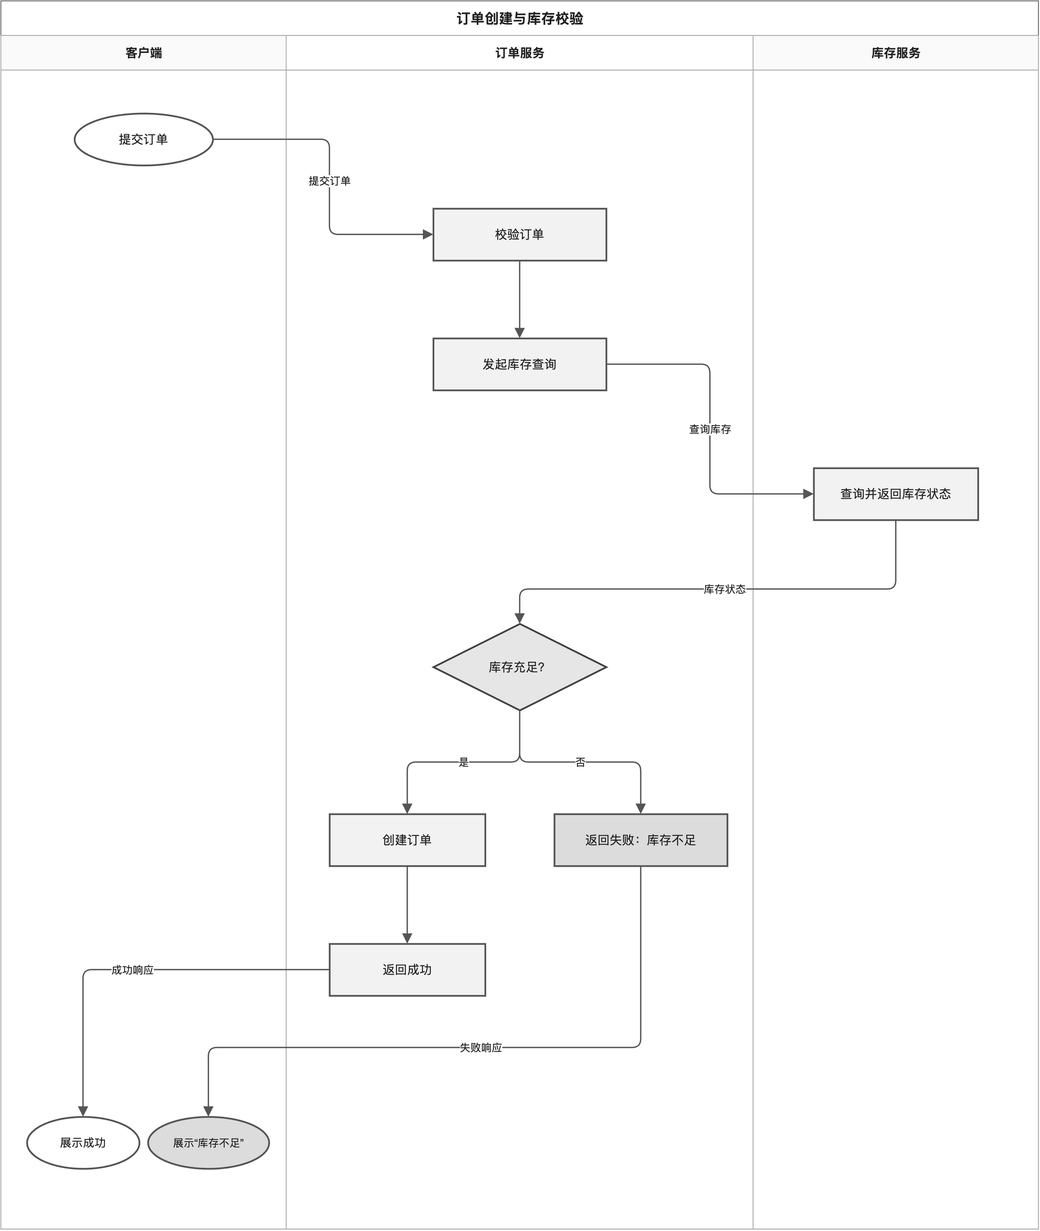
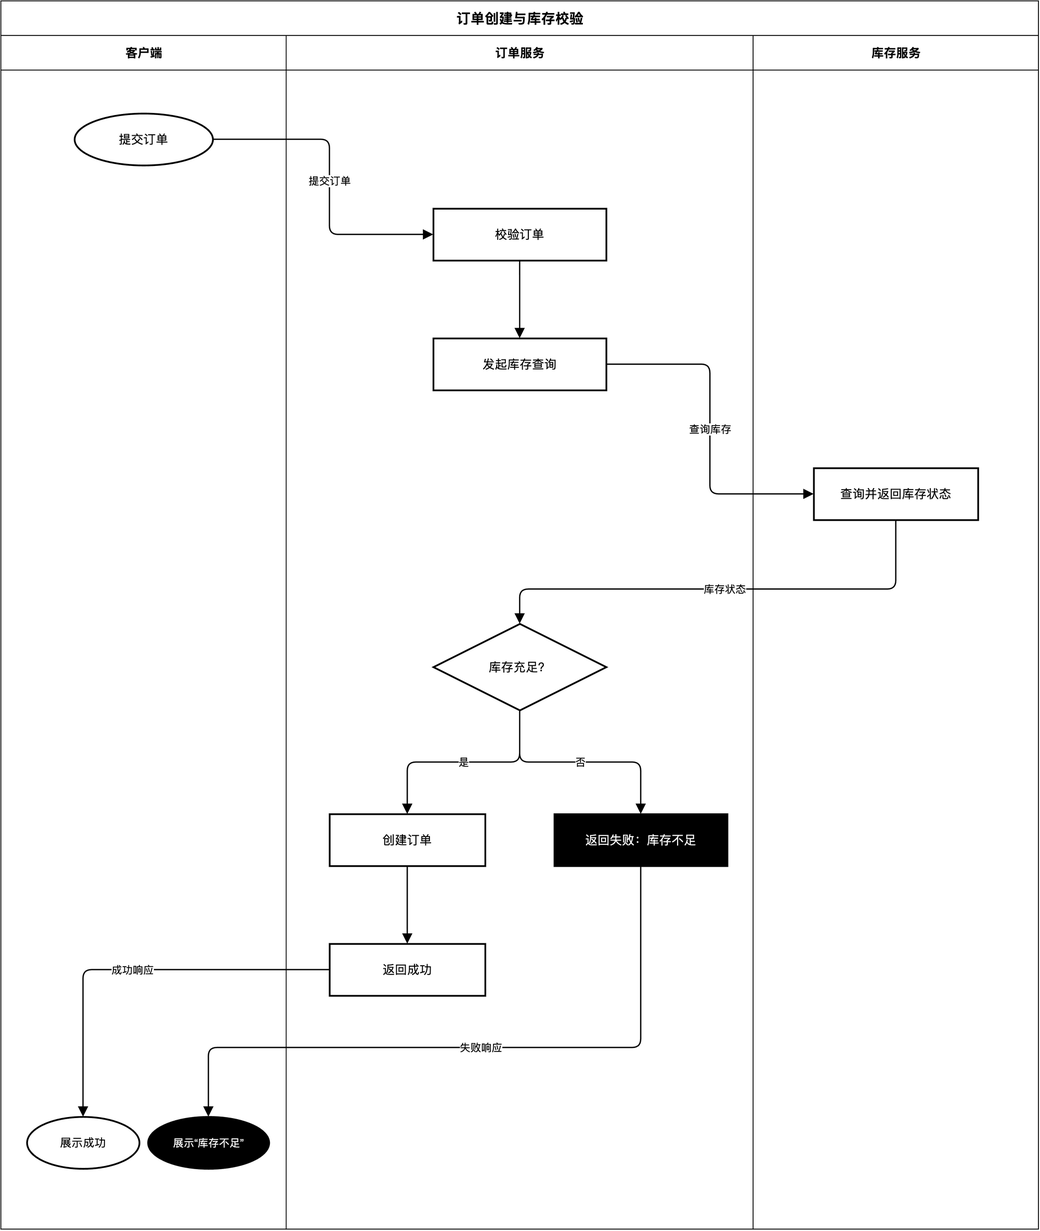
feat(skill): enforce pure black-and-white diagrams

diff --git a/demo/order_stock_comparison.html b/demo/order_stock_comparison.html
@@ -38,8 +38,8 @@
       <nav><a href="order_stock_text2drawio.png" target="_blank">查看 PNG</a><a href="order_stock_text2drawio.drawio" download>下载 .drawio</a></nav>
     </article>
     <article>
-      <h2>4. text2drawio-skill 优化后（竖向泳道 · 灰度）</h2>
-      <a href="order_stock_text2drawio_vertical.png" target="_blank"><img src="order_stock_text2drawio_vertical.png" alt="text2drawio-skill 优化后的竖向灰度泳道图"></a>
+      <h2>4. text2drawio-skill 当前版（竖向泳道 · 纯黑白）</h2>
+      <a href="order_stock_text2drawio_vertical.png" target="_blank"><img src="order_stock_text2drawio_vertical.png" alt="text2drawio-skill 当前生成的竖向黑白泳道图"></a>
       <nav><a href="order_stock_text2drawio_vertical.png" target="_blank">查看 PNG</a><a href="order_stock_text2drawio_vertical.drawio" download>下载 .drawio</a></nav>
     </article>
   </main>

diff --git a/text2drawio-skill/scripts/check_conventions.py b/text2drawio-skill/scripts/check_conventions.py
@@ -1,13 +1,12 @@
 #!/usr/bin/env python3
-"""Check grayscale, vertical swimlanes, and consistent two-way decision edges."""
+"""Check pure black/white colors, vertical lanes, and consistent decision edges."""
 
 import argparse
-import re
 import sys
 import xml.etree.ElementTree as ET
 
 
-HEX_COLOR = re.compile(r"#([0-9a-fA-F]{6}|[0-9a-fA-F]{3})(?![0-9a-fA-F])")
+ALLOWED_COLORS = {"#000000", "#FFFFFF"}
 BRANCH_KEYS = ("edgeStyle", "rounded", "orthogonalLoop", "jettySize",
                "strokeColor", "strokeWidth", "endArrow", "endSize")
 
@@ -41,23 +40,34 @@ def first_waypoint(edge):
         return None
 
 
-def is_gray(hex_value):
-    if len(hex_value) == 3:
-        channels = [int(c * 2, 16) for c in hex_value]
-    else:
-        channels = [int(hex_value[i:i + 2], 16) for i in (0, 2, 4)]
-    return len(set(channels)) == 1
-
-
 def inspect(path):
     root = ET.parse(path).getroot()
     cells = root.findall(".//mxCell")
     findings = []
 
     for cell in cells:
-        for color in HEX_COLOR.findall(cell.get("style") or ""):
-            if not is_gray(color):
-                findings.append(f"{cell.get('id')}: non-grayscale style color #{color}")
+        style = style_map(cell.get("style"))
+        for key, color in style.items():
+            if key.lower().endswith("color") and color.upper() not in ALLOWED_COLORS:
+                findings.append(f"{cell.get('id')}: {key} must be #000000 or #FFFFFF, got {color}")
+        if cell.get("vertex") == "1":
+            for key in ("fillColor", "strokeColor", "fontColor"):
+                if key not in style:
+                    findings.append(f"{cell.get('id')}: missing explicit {key}")
+        if cell.get("edge") == "1":
+            for key in (("strokeColor", "fontColor") if cell.get("value") else ("strokeColor",)):
+                if key not in style:
+                    findings.append(f"{cell.get('id')}: missing explicit {key}")
+        if cell.get("vertex") == "1" and cell.get("value"):
+            fill, font = style.get("fillColor"), style.get("fontColor", "#000000")
+            if fill and fill.upper() == font.upper():
+                findings.append(f"{cell.get('id')}: label color matches the fill")
+
+    for element in root.iter():
+        for key, color in element.attrib.items():
+            if key.lower().endswith("color") or key == "background":
+                if color.upper() not in ALLOWED_COLORS:
+                    findings.append(f"{element.tag}: {key} must be #000000 or #FFFFFF, got {color}")
 
     by_parent = {}
     for cell in cells:

diff --git a/text2drawio-skill/scripts/autolayout.py b/text2drawio-skill/scripts/autolayout.py
@@ -32,9 +32,9 @@ import sys
 from xml.sax.saxutils import escape
 
 DEFAULT_W, DEFAULT_H = 120, 60
-NODE_STYLE = "rounded=1;whiteSpace=wrap;html=1;fillColor=#f2f2f2;strokeColor=#555555;"
-EDGE_STYLE = "html=1;rounded=0;"
-GROUP_STYLE = ("rounded=0;whiteSpace=wrap;html=1;fillColor=none;strokeColor=#999999;"
+NODE_STYLE = "rounded=1;whiteSpace=wrap;html=1;fillColor=#FFFFFF;strokeColor=#000000;fontColor=#000000;"
+EDGE_STYLE = "html=1;rounded=0;strokeColor=#000000;fontColor=#000000;"
+GROUP_STYLE = ("rounded=0;whiteSpace=wrap;html=1;fillColor=#FFFFFF;strokeColor=#000000;"
                "verticalAlign=top;fontStyle=2;dashed=1;")
 # Group colours come from the skill's own palette (styles/built-in/default.json)
 # so there is a single source of truth, not a second list baked in here. When a
@@ -44,8 +44,7 @@ GROUP_STYLE = ("rounded=0;whiteSpace=wrap;html=1;fillColor=none;strokeColor=#999
 # nodes are tinted. Disable with --mono.
 _PALETTE_ORDER = ["primary", "success", "accent", "secondary", "warning", "danger", "neutral"]
 _PALETTE_FILE = os.path.join(os.path.dirname(__file__), "..", "styles", "built-in", "default.json")
-_FALLBACK_PALETTE = [("#f2f2f2", "#555555"), ("#ffffff", "#555555"), ("#eeeeee", "#555555"),
-                     ("#eaeaea", "#555555"), ("#e6e6e6", "#444444"), ("#dcdcdc", "#555555")]
+_FALLBACK_PALETTE = [("#FFFFFF", "#000000")]
 
 
 def load_palette():
@@ -182,8 +181,8 @@ def layout(dot_src):
 
 
 def group_style(stroke):
-    """Container box styled with a group's colour (coloured border + title)."""
-    return (f"rounded=0;whiteSpace=wrap;html=1;fillColor=none;strokeColor={stroke};"
+    """Container box with a black border and title on a white background."""
+    return (f"rounded=0;whiteSpace=wrap;html=1;fillColor=#FFFFFF;strokeColor={stroke};"
             f"fontColor={stroke};verticalAlign=top;fontStyle=2;dashed=1;")
 
 
@@ -282,7 +281,7 @@ def page_cells(graph, height, pos, edge_pts, color=True):
             style = node["style"]                         # explicit style always wins
         elif color and nid in gpath:
             fill, stroke = gcolor(gpath[nid][0])          # tint styleless nodes by group
-            style = f"rounded=1;whiteSpace=wrap;html=1;fillColor={fill};strokeColor={stroke};"
+            style = f"rounded=1;whiteSpace=wrap;html=1;fillColor={fill};strokeColor={stroke};fontColor=#000000;"
         else:
             style = NODE_STYLE
         body = (f'style="{attr(style)}" vertex="1" parent="{attr(parent)}">\n'

diff --git a/text2drawio-skill/SKILL.md b/text2drawio-skill/SKILL.md
@@ -1,11 +1,11 @@
 ---
 name: text2drawio-skill
-description: Turn a natural-language request into an editable native .drawio flowchart or system interaction diagram. Use vertical swimlane columns, a grayscale palette, consistent decision branches, structural validation, and PNG visual review.
+description: Turn a natural-language request into an editable native .drawio flowchart or system interaction diagram. Use vertical swimlane columns, only black and white, consistent decision branches, structural validation, and PNG visual review.
 ---
 
 # Natural language to editable draw.io
 
-`text2drawio-skill` is adapted from Agents365-ai/drawio-skill at commit `6550495129d9a42eff7e71434d15bfc9846b6202` (MIT; see `LICENSE`). Its original Python helpers are retained, with local grayscale defaults in `autolayout.py`. `export_png.py` and `check_conventions.py` are local helpers. The agent plans and writes the diagram; these scripts do not interpret natural language or inspect pixels on their own.
+`text2drawio-skill` is adapted from Agents365-ai/drawio-skill at commit `6550495129d9a42eff7e71434d15bfc9846b6202` (MIT; see `LICENSE`). Its original Python helpers are retained, with local black-and-white defaults in `autolayout.py`. `export_png.py` and `check_conventions.py` are local helpers. The agent plans and writes the diagram; these scripts do not interpret natural language or inspect pixels on their own.
 
 ## Requirements
 
@@ -17,11 +17,11 @@ description: Turn a natural-language request into an editable native .drawio flo
 ## Create
 
 1. Extract the participants, actions, order, conditions, exception paths, and requested diagram type. Keep assumptions and unanswered questions visible in the response. For a system interaction swimlane, use one **vertical column** per participating system; time flows top to bottom. Put each step inside the column of the system performing it.
-2. Read [diagram-types.md](references/diagram-types.md) for vertical swimlanes and [xml-authoring.md](references/xml-authoring.md) before writing native XML. Plan positions, container nesting, connection ports, and routing corridors. Use only black, white, and gray fills, strokes, and text in this version. For a large non-swimlane graph, optionally describe nodes/edges as JSON and use `python3 scripts/autolayout.py graph.json -o diagram.drawio` if Graphviz is installed.
-3. Write an uncompressed `.drawio` file with `<mxfile>`, `<mxGraphModel>`, root cells `0` and `1`, stable unique cell IDs, `mxGeometry` for each shape and edge, and source/target IDs for connections. Keep labels short enough to fit. Use relative coordinates for child cells inside lanes.
-4. For each decision with two alternatives, place both outgoing edges at the **same exact port** on the decision cell. Give them the same `edgeStyle`, `rounded`, `strokeWidth`, `strokeColor`, and arrow settings. Prefer a short shared stem to one branching point, then explicit orthogonal waypoints to the two targets; label the diverging arms `是` and `否` near the split. Distinguish outcomes by text and destination, not edge color or a different line type.
+2. Read [diagram-types.md](references/diagram-types.md) for vertical swimlanes and [xml-authoring.md](references/xml-authoring.md) before writing native XML. Plan positions, container nesting, connection ports, and routing corridors. Use only `#000000` and `#FFFFFF` for every fill, stroke, font, background, and label color. Avoid transparency, named colors, gray, and gradients. For a large non-swimlane graph, optionally describe nodes/edges as JSON and use `python3 scripts/autolayout.py graph.json -o diagram.drawio` if Graphviz is installed.
+3. Write an uncompressed `.drawio` file with `<mxfile>`, `<mxGraphModel>`, root cells `0` and `1`, stable unique cell IDs, `mxGeometry` for each shape and edge, and source/target IDs for connections. Set `fillColor`, `strokeColor`, and `fontColor` explicitly on every vertex, and set black `strokeColor` on every edge. Keep labels short enough to fit. Use relative coordinates for child cells inside lanes.
+4. For each decision with two alternatives, place both outgoing edges at the **same exact port** on the decision cell. Give them the same `edgeStyle`, `rounded`, `strokeWidth`, `strokeColor`, and arrow settings. Prefer a short shared stem to one branching point, then explicit orthogonal waypoints to the two targets; label the diverging arms `是` and `否` near the split. Distinguish outcomes by text, shape, or black fill with white text, not a different line color or type.
 5. Run `python3 scripts/validate.py diagram.drawio --score` and `python3 scripts/check_conventions.py diagram.drawio`. Fix errors before preview. Treat geometry warnings as review prompts: draw.io computes many edge paths only at render time.
-6. Run `python3 scripts/export_png.py diagram.drawio -o diagram.preview.png` to export a draft without embedded XML. Open the PNG with the host's image viewing tool and check lane orientation, grayscale palette, the branch junction and labels, overlapping shapes, clipped text, and edges crossing unrelated shapes. If multiple edges stack at a node boundary, run `python3 scripts/edgeports.py diagram.drawio -o diagram.routed.drawio`, then inspect the result. Do not run it on a deliberately shared decision port; it preserves manually pinned ports.
+6. Run `python3 scripts/export_png.py diagram.drawio -o diagram.preview.png` to export a draft without embedded XML. Open the PNG with the host's image viewing tool and check lane orientation, pure black-and-white palette, the branch junction and labels, overlapping shapes, clipped text, and edges crossing unrelated shapes. If multiple edges stack at a node boundary, run `python3 scripts/edgeports.py diagram.drawio -o diagram.routed.drawio`, then inspect the result. Do not run it on a deliberately shared decision port; it preserves manually pinned ports.
 7. If defects remain, edit the XML, validate, export, and inspect again. Make at most **two automatic visual repair rounds** after the initial draft. Report any remaining defects plainly. If PNG export or image inspection is unavailable, do not silently count the missing check as successful.
 8. Show the preview and editable `.drawio` to the user. Apply up to **five user-feedback rounds** in the current creation cycle. For each round, change only affected cells where practical, then validate and preview again. Keep the round count in the conversation; no bundled script enforces it. After the fifth round, deliver the latest file and describe any remaining requested refinement.
 

diff --git a/text2drawio-skill/references/xml-authoring.md b/text2drawio-skill/references/xml-authoring.md
@@ -53,17 +53,17 @@ For non-trivial shapes, verify that draw.io supports the chosen `shape=mxgraph.*
 
 ```xml
 <!-- Rectangle / rounded box -->
-<mxCell id="2" value="Label" style="rounded=1;whiteSpace=wrap;html=1;fillColor=#f2f2f2;strokeColor=#555555;" vertex="1" parent="1">
+<mxCell id="2" value="Label" style="rounded=1;whiteSpace=wrap;html=1;fillColor=#FFFFFF;strokeColor=#000000;fontColor=#000000;" vertex="1" parent="1">
   <mxGeometry x="100" y="100" width="160" height="60" as="geometry" />
 </mxCell>
 
 <!-- Cylinder (database) -->
-<mxCell id="3" value="DB" style="shape=cylinder3;whiteSpace=wrap;html=1;fillColor=#f5f5f5;strokeColor=#666666;fontColor=#333333;" vertex="1" parent="1">
+<mxCell id="3" value="DB" style="shape=cylinder3;whiteSpace=wrap;html=1;fillColor=#FFFFFF;strokeColor=#000000;fontColor=#000000;" vertex="1" parent="1">
   <mxGeometry x="350" y="100" width="120" height="80" as="geometry" />
 </mxCell>
 
 <!-- Diamond (decision) -->
-<mxCell id="4" value="Check?" style="rhombus;whiteSpace=wrap;html=1;fillColor=#e6e6e6;strokeColor=#444444;" vertex="1" parent="1">
+<mxCell id="4" value="Check?" style="rhombus;whiteSpace=wrap;html=1;fillColor=#FFFFFF;strokeColor=#000000;fontColor=#000000;" vertex="1" parent="1">
   <mxGeometry x="100" y="220" width="160" height="80" as="geometry" />
 </mxCell>
 ```
@@ -85,14 +85,14 @@ For architecture diagrams with nested elements, use draw.io's parent-child conta
 
 ```xml
 <!-- Swimlane container -->
-<mxCell id="svc1" value="User Service" style="swimlane;startSize=30;fillColor=#fafafa;strokeColor=#aaaaaa;" vertex="1" parent="1">
+<mxCell id="svc1" value="User Service" style="swimlane;startSize=30;fillColor=#FFFFFF;strokeColor=#000000;fontColor=#000000;" vertex="1" parent="1">
   <mxGeometry x="100" y="100" width="300" height="200" as="geometry"/>
 </mxCell>
 <!-- Child inside container — coordinates relative to parent -->
-<mxCell id="api1" value="REST API" style="rounded=1;whiteSpace=wrap;html=1;" vertex="1" parent="svc1">
+<mxCell id="api1" value="REST API" style="rounded=1;whiteSpace=wrap;html=1;fillColor=#FFFFFF;strokeColor=#000000;fontColor=#000000;" vertex="1" parent="svc1">
   <mxGeometry x="20" y="40" width="120" height="60" as="geometry"/>
 </mxCell>
-<mxCell id="db1" value="Database" style="shape=cylinder3;whiteSpace=wrap;html=1;" vertex="1" parent="svc1">
+<mxCell id="db1" value="Database" style="shape=cylinder3;whiteSpace=wrap;html=1;fillColor=#FFFFFF;strokeColor=#000000;fontColor=#000000;" vertex="1" parent="svc1">
   <mxGeometry x="160" y="40" width="120" height="60" as="geometry"/>
 </mxCell>
 ```
@@ -103,17 +103,17 @@ For architecture diagrams with nested elements, use draw.io's parent-child conta
 
 ```xml
 <!-- Directed arrow — always include rounded, orthogonalLoop, jettySize for clean routing -->
-<mxCell id="10" value="" style="edgeStyle=orthogonalEdgeStyle;rounded=1;orthogonalLoop=1;jettySize=auto;html=1;" edge="1" parent="1" source="2" target="3">
+<mxCell id="10" value="" style="edgeStyle=orthogonalEdgeStyle;rounded=1;orthogonalLoop=1;jettySize=auto;html=1;strokeColor=#000000;" edge="1" parent="1" source="2" target="3">
   <mxGeometry relative="1" as="geometry" />
 </mxCell>
 
 <!-- Arrow with label + explicit entry/exit points to control direction -->
-<mxCell id="11" value="HTTP/REST" style="edgeStyle=orthogonalEdgeStyle;rounded=1;orthogonalLoop=1;jettySize=auto;html=1;exitX=0.5;exitY=1;exitDx=0;exitDy=0;entryX=0.5;entryY=0;entryDx=0;entryDy=0;" edge="1" parent="1" source="2" target="4">
+<mxCell id="11" value="HTTP/REST" style="edgeStyle=orthogonalEdgeStyle;rounded=1;orthogonalLoop=1;jettySize=auto;html=1;strokeColor=#000000;fontColor=#000000;exitX=0.5;exitY=1;exitDx=0;exitDy=0;entryX=0.5;entryY=0;entryDx=0;entryDy=0;" edge="1" parent="1" source="2" target="4">
   <mxGeometry relative="1" as="geometry" />
 </mxCell>
 
 <!-- Arrow with waypoints — use when edge must route around other shapes -->
-<mxCell id="12" value="" style="edgeStyle=orthogonalEdgeStyle;rounded=1;orthogonalLoop=1;jettySize=auto;html=1;" edge="1" parent="1" source="3" target="5">
+<mxCell id="12" value="" style="edgeStyle=orthogonalEdgeStyle;rounded=1;orthogonalLoop=1;jettySize=auto;html=1;strokeColor=#000000;" edge="1" parent="1" source="3" target="5">
   <mxGeometry relative="1" as="geometry">
     <Array as="points">
       <mxPoint x="500" y="50" />
@@ -146,22 +146,20 @@ When multiple edges connect to the same shape, assign different entry/exit point
 
 **Rule:** if a shape has N connections on one side, space them evenly (e.g., 3 connections on bottom → exitX = 0.25, 0.5, 0.75)
 
-### Grayscale palette (fillColor / strokeColor)
+### Black-and-white palette (fillColor / strokeColor)
 
-Use only black, white, and gray values for this version. Keep all edge strokes the same gray; use node shape and labels to distinguish outcomes.
+Use exactly `#000000` and `#FFFFFF` for explicit colors. Keep all edge strokes black; use node shape and labels to distinguish outcomes. White fills with black text are the default. An exception node may use black fill with white text.
 
-| Role | fillColor | strokeColor |
-| --- | --- | --- |
-| Start/end | `#ffffff` | `#555555` |
-| Normal process | `#f2f2f2` | `#555555` |
-| Decision | `#e6e6e6` | `#444444` |
-| Exception process | `#dcdcdc` | `#555555` |
-| Lane background | `#fafafa` | `#aaaaaa` |
-| Edges/text | — | `#555555` / `#222222` |
+| Role | fillColor | strokeColor | fontColor |
+| --- | --- | --- | --- |
+| Start/end, process, decision | `#FFFFFF` | `#000000` | `#000000` |
+| Exception process, when emphasized | `#000000` | `#000000` | `#FFFFFF` |
+| Lane background | `#FFFFFF` | `#000000` | `#000000` |
+| Edges and edge labels | — | `#000000` | `#000000` |
 
 ### Legend
 
-In grayscale diagrams, avoid a color legend. Use shape and text labels to explain outcomes. Add a legend only if the diagram introduces another visual convention that a reader cannot infer from the labels.
+Avoid a color legend. Use shape and text labels to explain outcomes. Add a legend only if the diagram introduces another visual convention that a reader cannot infer from the labels.
 
 ### Layout tips
 

diff --git a/text2drawio-skill/references/diagram-types.md b/text2drawio-skill/references/diagram-types.md
@@ -1,4 +1,4 @@
-# Grayscale flowchart and vertical swimlane conventions
+# Black-and-white flowchart and vertical swimlane conventions
 
 Adapted from the "Cross-Functional Flowchart (Swimlane)" and "Flowchart (enhanced)" sections of upstream `references/diagram-types.md` at commit `6550495129d9a42eff7e71434d15bfc9846b6202`.
 
@@ -8,10 +8,10 @@ A flowchart split by **who does what** — one vertical column per role, departm
 
 | Element | Style | Notes |
 | --- | --- | --- |
-| Pool (process) | `swimlane;html=1;horizontal=1;startSize=40;collapsible=0;fillColor=#ffffff;strokeColor=#666666;` | Outer container; process title across the top |
-| Lane (participant) | `swimlane;html=1;horizontal=1;startSize=40;collapsible=0;fillColor=#fafafa;strokeColor=#aaaaaa;` | Child of pool; one tall side-by-side column per system, with a horizontal header at the top |
+| Pool (process) | `swimlane;html=1;horizontal=1;startSize=40;collapsible=0;fillColor=#FFFFFF;strokeColor=#000000;fontColor=#000000;` | Outer container; process title across the top |
+| Lane (participant) | `swimlane;html=1;horizontal=1;startSize=40;collapsible=0;fillColor=#FFFFFF;strokeColor=#000000;fontColor=#000000;` | Child of pool; one tall side-by-side column per system, with a horizontal header at the top |
 | Steps | Flowchart styles below | Step `parent` = lane ID; coordinates relative to lane |
-| Handoff edge | `edgeStyle=orthogonalEdgeStyle;rounded=1;orthogonalLoop=1;jettySize=auto;html=1;strokeColor=#555555;endArrow=block;` | Connects steps across columns |
+| Handoff edge | `edgeStyle=orthogonalEdgeStyle;rounded=1;orthogonalLoop=1;jettySize=auto;html=1;strokeColor=#000000;fontColor=#000000;endArrow=block;` | Connects steps across columns |
 | Layout | Top to bottom sequence | Keep steps inside their system's column; leave clear horizontal corridors for cross-system edges |
 
 Create lane geometries with the same `y` and `height`, distinct `x` values, and no horizontal overlap. For example, three 300 px wide lanes can start at x = 0, 300, and 600 relative to the pool. The visible header band is at the top of each column.
@@ -20,11 +20,12 @@ Create lane geometries with the same `y` and `height`, distinct `x` values, and 
 
 | Element | Style | Notes |
 | --- | --- | --- |
-| Start/End | `ellipse;whiteSpace=wrap;html=1;fillColor=#ffffff;strokeColor=#555555;` | White oval |
-| Process | `rounded=0;whiteSpace=wrap;html=1;fillColor=#f2f2f2;strokeColor=#555555;` | Light gray rectangle |
-| Decision | `rhombus;whiteSpace=wrap;html=1;fillColor=#e6e6e6;strokeColor=#444444;` | Medium gray diamond |
-| I/O | `shape=parallelogram;perimeter=parallelogramPerimeter;whiteSpace=wrap;html=1;fillColor=#f2f2f2;strokeColor=#555555;` | Light gray parallelogram |
-| Subprocess | `rounded=0;whiteSpace=wrap;html=1;fillColor=#e6e6e6;strokeColor=#555555;` plus double border | Medium gray rectangle |
-| Yes/No branches | `value="是"` / `value="否"` on edges | Same source port, same orthogonal line style and gray stroke; branch from a common stem |
+| Start/End | `ellipse;whiteSpace=wrap;html=1;fillColor=#FFFFFF;strokeColor=#000000;fontColor=#000000;` | White oval |
+| Process | `rounded=0;whiteSpace=wrap;html=1;fillColor=#FFFFFF;strokeColor=#000000;fontColor=#000000;` | White rectangle |
+| Decision | `rhombus;whiteSpace=wrap;html=1;fillColor=#FFFFFF;strokeColor=#000000;fontColor=#000000;` | White diamond |
+| I/O | `shape=parallelogram;perimeter=parallelogramPerimeter;whiteSpace=wrap;html=1;fillColor=#FFFFFF;strokeColor=#000000;fontColor=#000000;` | White parallelogram |
+| Subprocess | `rounded=0;whiteSpace=wrap;html=1;fillColor=#FFFFFF;strokeColor=#000000;fontColor=#000000;` plus double border | White rectangle |
+| Exception step | `rounded=0;whiteSpace=wrap;html=1;fillColor=#000000;strokeColor=#000000;fontColor=#FFFFFF;` | Optional black fill for emphasis; keep label legible |
+| Yes/No branches | `value="是"` / `value="否"` on edges | Same source port, same orthogonal line style and black stroke; branch from a common stem |
 
 For a two-way decision, both edges should use the same `exitX` and `exitY` and the same first waypoint. Use further waypoints to form symmetric right-angle turns to their respective targets. Keep the labels on the two diverging arms, close to the split. If the physical branches require different attachment points to avoid collisions, use one decision-to-junction edge and connect both labeled alternatives from a small junction node instead of silently giving the two branches different ports.

diff --git a/PROGRESS.md b/PROGRESS.md
@@ -6,14 +6,15 @@
 
 1. 每次功能修改或更新，都在本文件新增一条记录，写明时间、修改项和验证结果。
 2. 修改与对应的 `PROGRESS.md` 记录放在同一次 Git 提交中。提交信息采用 Angular 风格：`<type>(<scope>): <subject>`，例如 `feat(skill): support vertical swimlanes`、`fix(diagram): align decision branches`、`docs: update progress log`。常用类型包括 `feat`、`fix`、`docs`、`refactor`、`test`、`chore`。
-3. 项目关联 GitHub 后，每次提交都推送到对应远程仓库；记录中填入提交哈希。若远程仓库或推送权限暂不可用，明确记录未推送状态，不把本地提交视为已提交到 GitHub。
+3. 项目关联 GitHub 后，每次提交都推送到对应远程仓库；记录关联的提交主题或已有哈希，准确哈希以 Git 历史为准。若远程仓库或推送权限暂不可用，明确记录未推送状态，不把本地提交视为已提交到 GitHub。
 
 ## 修改记录
 
 | 时间 | 类型 | 修改项与验证 | 提交 |
 | --- | --- | --- | --- |
-| 2026-11-19 20:14 | `chore` | 在根目录 `.gitignore` 排除 `upstream-drawio-skill/`，并从暂存区移除该嵌套仓库条目；使用 `git check-ignore` 与暂存区检查验证。 | 待首次提交：尚未配置 GitHub remote。 |
-| 2026-11-19 20:08 | `docs` | 新增全局修改记录及后续提交约定；核对根目录 Git 状态。 | 待首次提交：本地 `main` 尚无提交，尚未配置 GitHub remote。 |
+| 2026-11-19 20:47 | `feat` | 将生图规范、默认调色板、自动布局和样例统一为 `#000000` / `#FFFFFF`；规范检查器拒绝其他颜色和缺少显式颜色的节点/边。样例结构校验及规范检查均为 0 错误，旧灰度图被检出 54 项，PNG 已目视检查。 | `feat(skill): enforce pure black-and-white diagrams` |
+| 2026-11-19 20:14 | `chore` | 在根目录 `.gitignore` 排除 `upstream-drawio-skill/`，并从暂存区移除该嵌套仓库条目；使用 `git check-ignore` 与暂存区检查验证。 | `f656ea3 feat: init project` |
+| 2026-11-19 20:08 | `docs` | 新增全局修改记录及后续提交约定；核对根目录 Git 状态。 | `f656ea3 feat: init project` |
 
 ## 历史补录
 
